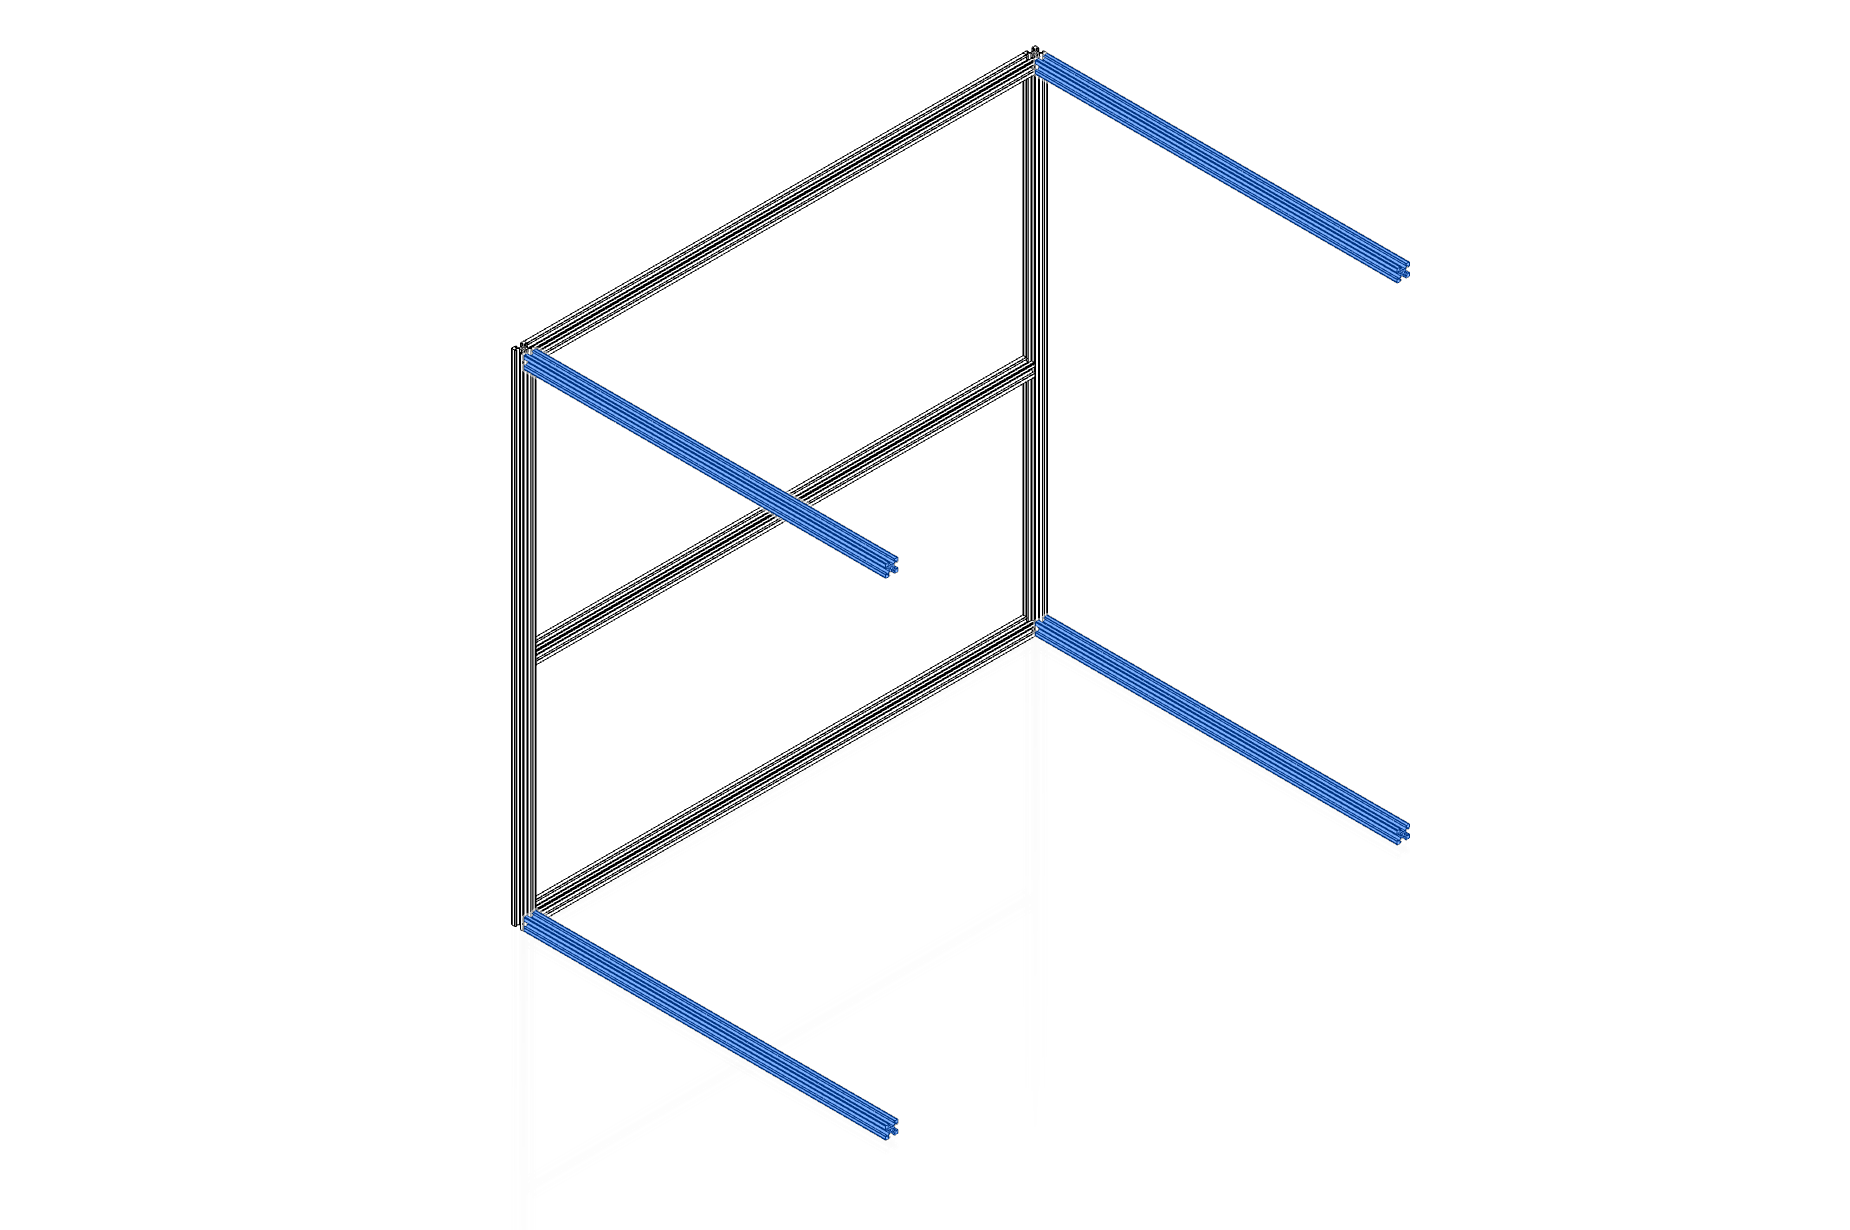
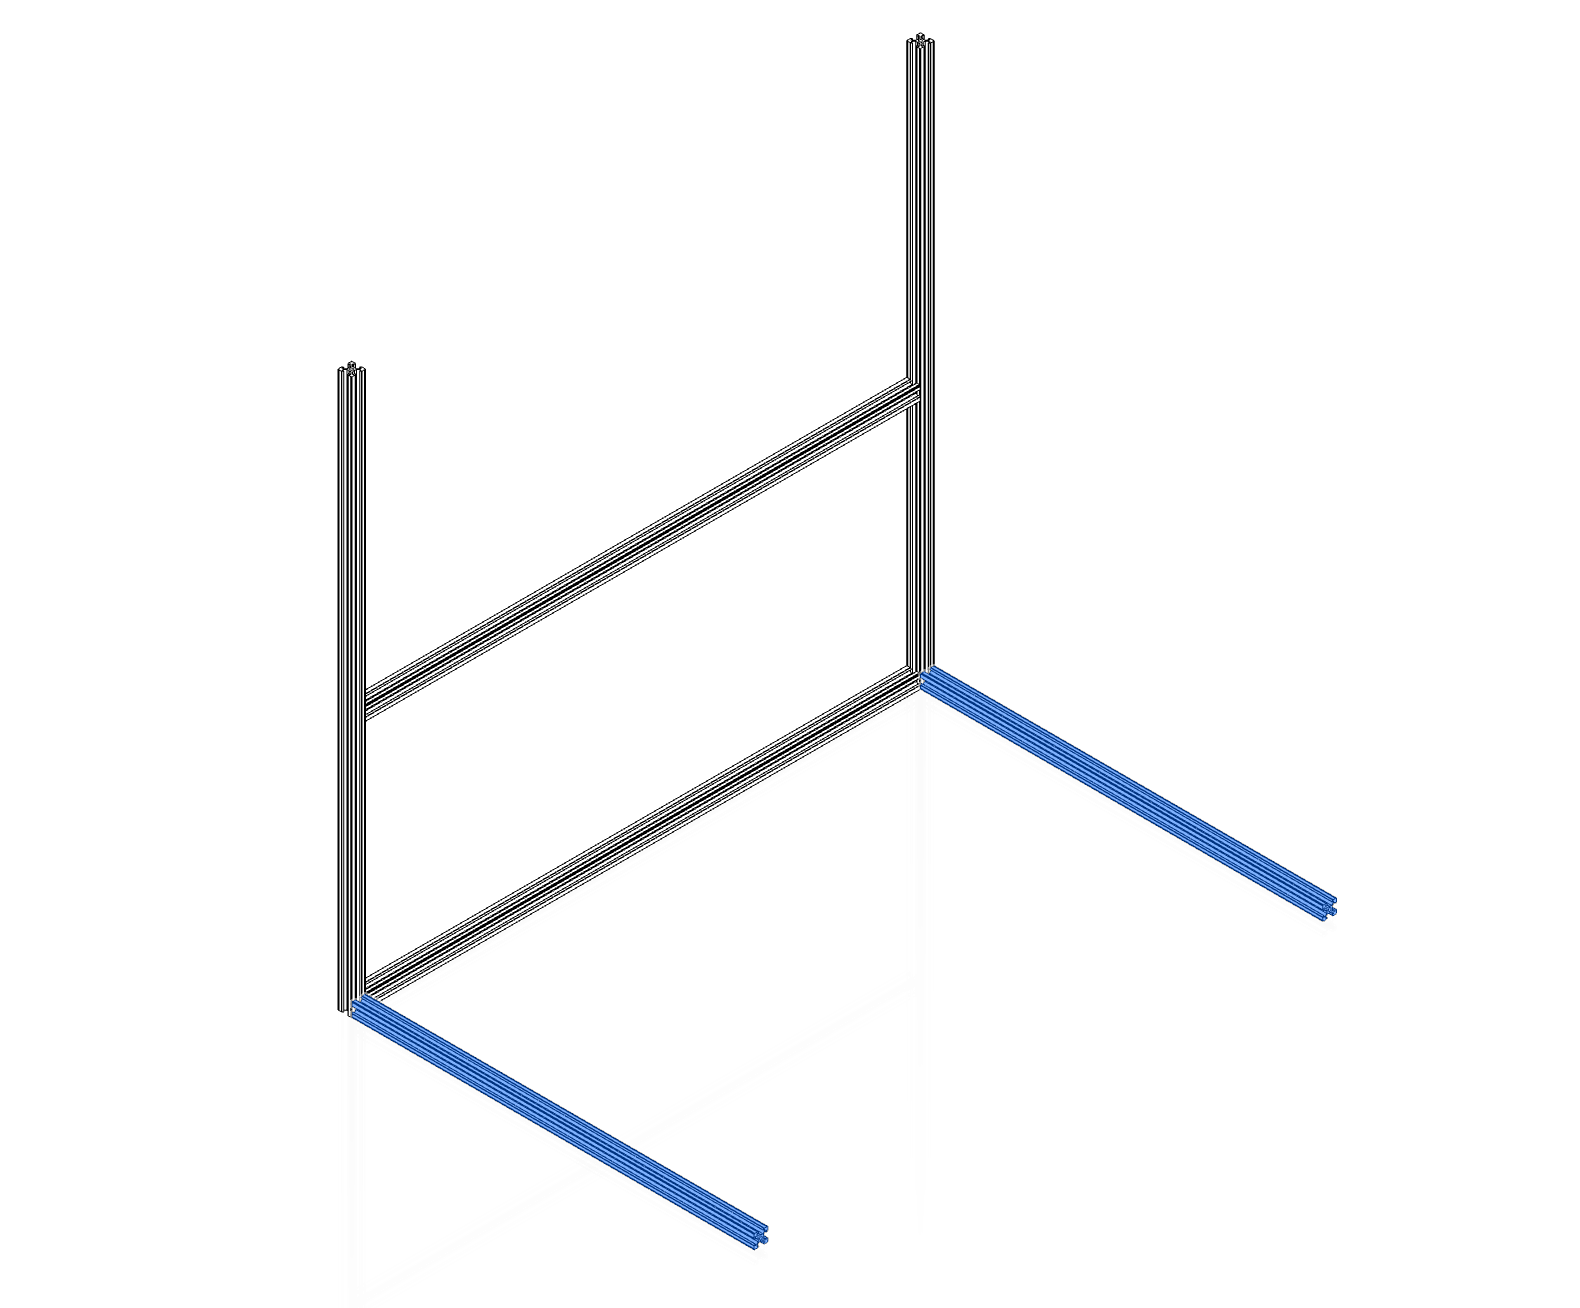
re-ordered assembly of left side so you can actually put it together

Changed region(s): [[0.1861, 0.0309, 0.8684, 0.9577]]

diff --git a/docs/casa/manual/chapters/10_outer_frame_assembly.md b/docs/casa/manual/chapters/10_outer_frame_assembly.md
@@ -76,8 +76,8 @@ Repeat step 1 & 2
 
 !!! info annotate "Components Required"
     ```
-        4 x Extrusion C
-        4 x M5 x 10 BHCS
+        2 x Extrusion C
+        2 x M5 x 10 BHCS
     ```
 ![](../img/10_s6.png)
 
@@ -85,7 +85,7 @@ Repeat step 1 & 2
 
 !!! info annotate "Components Required"
     ```
-        2 x Extrusion G
+        2 x Extrusion D
         2 x M5 x 10 BHCS
     ```
 ![](../img/10_s7.png)
@@ -94,17 +94,27 @@ Repeat step 1 & 2
 
 !!! info annotate "Components Required"
     ```
-        2 x Extrusion D
+        2 x Extrusion F
+        2 x Extrusion B
         6 x M5 x 10 BHCS
     ```
-![](../img/10_s8.png)
+![](../img/10_s8_1.png)
 
 ---
 
 !!! info annotate "Components Required"
     ```
-        3 x Extrusion B
-        6 x M5 x 10 BHCS
+        2 x Extrusion C
+        2 x M5 x 10 BHCS
+    ```
+![](../img/10_s8_2.png)
+
+---
+
+!!! info annotate "Components Required"
+    ```
+        2 x Extrusion B
+        4 x M5 x 10 BHCS
     ```
 ![](../img/10_s9.png)
 
